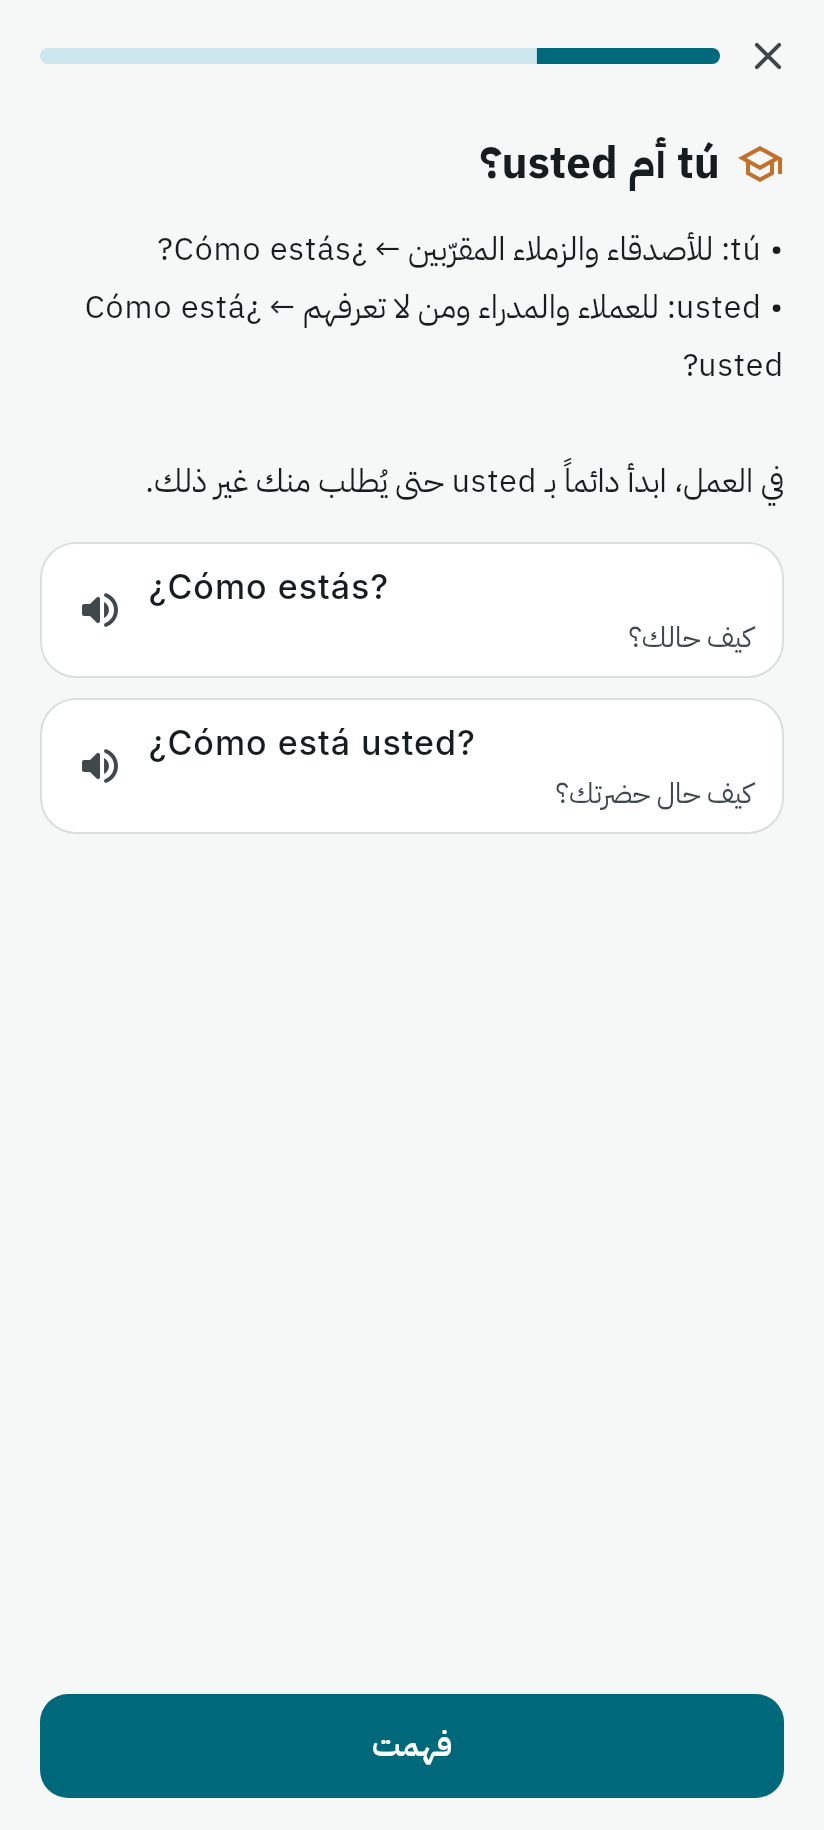
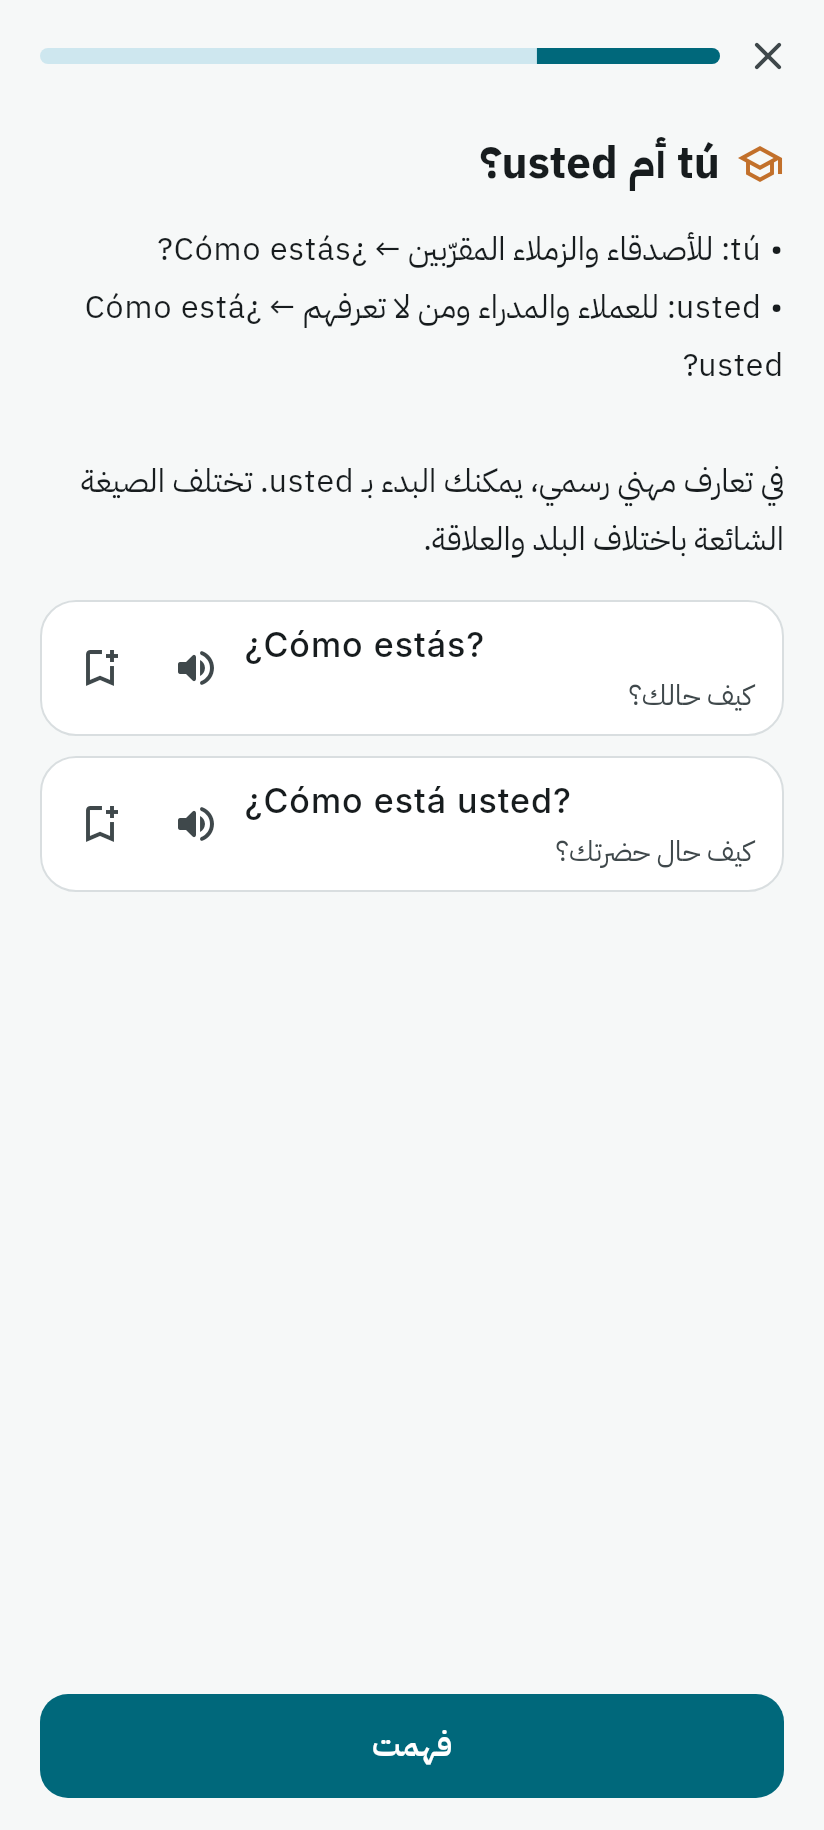
docs: Phase 1.1 status, schema v4 and screenshots
Claude-Session: https://claude.ai/code/session_014cGpiLcERRNXHMXNNCGtL2

diff --git a/test_screenshots/screenshots_test.dart b/test_screenshots/screenshots_test.dart
@@ -7,6 +7,7 @@
 import 'package:espanol_pro/core/content/models.dart';
 import 'package:espanol_pro/core/learning/exercises.dart';
 import 'package:espanol_pro/core/learning/progress_repository.dart';
+import 'package:espanol_pro/core/phrases/saved_phrases_repository.dart';
 import 'package:espanol_pro/core/settings.dart';
 import 'package:espanol_pro/core/srs/review_repository.dart';
 import 'package:flutter_test/flutter_test.dart';
@@ -64,6 +65,24 @@ void main() {
       await repo.logStudy(kind: 'review', seconds: 240);
       if (i != 2) app.clock.advance(const Duration(days: 1));
     }
+    final phrases = SavedPhrasesRepository(app.db, clock: app.clock.call);
+    for (final (es, ar, kind, id, lesson) in [
+      ('Mi casa es tu casa.', 'بيتي بيتك.', 'example', 'casa', 'pa1_u1_l1'),
+      ('el trabajo', 'العمل', 'vocab', 'el_trabajo', 'pa1_u1_l2'),
+      ('Pero / perro', 'لكن / كلب', 'grammar', 'g_letters', null),
+    ]) {
+      await phrases.save(
+        PhraseDraft(
+          es: es,
+          ar: ar,
+          source: PhraseSource(kind: kind, id: id, lessonId: lesson),
+        ),
+      );
+    }
+    final first = (await phrases.all()).firstWhere(
+      (p) => p.es.startsWith('Mi'),
+    );
+    await phrases.updateNote(first.id, 'أقولها لضيف يزورني لأول مرة.');
     return app;
   }
 
@@ -84,6 +103,8 @@ void main() {
     await shot(tester, '05_library_dictionary');
     await tester.tapSettled(find.text('دفتر الأخطاء'));
     await shot(tester, '06_error_notebook');
+    await tester.tapSettled(find.text('عباراتي'));
+    await shot(tester, '18_saved_phrases');
     await tester.tapSettled(find.text('التقدّم'));
     await shot(tester, '07_progress');
     await app.dispose(tester);

diff --git a/AI_BRIDGE/PROJECT_PLAN.md b/AI_BRIDGE/PROJECT_PLAN.md
@@ -53,7 +53,7 @@ updated_at_utc: 2026-11-17T09:00:00Z
 | الرئيسية، المسار، التدريب، المكتبة، التقدّم، الإعدادات | ✅ | `app_flow_test` |
 | شاشة المعلّم الذكي | 🟡 | شاشة تصرّح بأن الميزة غير مفعّلة — ليست ميزة |
 | دلالات إمكانية الوصول (Semantics) | 🟡 | مضافة للعناصر الأساسية؛ لم تُختبر بقارئ شاشة |
-| أيقونة التطبيق وشاشة البداية | ⬜ | ما زالت افتراضية Flutter |
+| أيقونة التطبيق وشاشة البداية | 🟡 | منفّذة في المرحلة 1.1 (PR A)؛ لم تُرَ على جهاز بعد |
 | حركات انتقالية دقيقة | ⬜ | الافتراضية فقط |
 
 ### §5 بنية المنهج
@@ -237,13 +237,14 @@ updated_at_utc: 2026-11-17T09:00:00Z
 
 ### 1.1 — تثبيت الأساس
 
-| العمل | معيار القبول |
-|---|---|
-| الفحوص الخمسة على الجهاز | ✅ أكّدها المالك (REVIEW-004) |
-| أيقونة التطبيق وشاشة البداية | تظهر في APK |
-| إشعار تذكير يومي محلي (اختياري، وقت قابل للضبط) | اختبار لمنطق الجدولة + تحقق يدوي |
-| العبارات المحفوظة (حفظ أي جملة مثال للمراجعة) | جدول جديد بترحيل مختبَر + اختبار واجهة |
-| عدّاد المراجعات المستحقة يتحدّث زمنياً | اختبار |
+| العمل | معيار القبول | الحالة |
+|---|---|---|
+| الفحوص الخمسة على الجهاز | أكّدها المالك | ✅ (REVIEW-004) |
+| أيقونة التطبيق وشاشة البداية | تظهر في APK | 🟡 منفّذة ومختبَرة آلياً (`branding_test`)؛ لم تُرَ على جهاز — PR A |
+| العبارات المحفوظة («عباراتي») | جدول جديد بترحيل مختبَر + اختبار واجهة | ✅ ترحيل v4، نسخ احتياطي، واجهة — PR A |
+| عدّاد المراجعات المستحقة يتحدّث زمنياً | اختبار بساعة متحكَّم بها | ✅ مؤقّت واحد لموعد البطاقة التالية بلا استطلاع — PR A |
+| حفظ وقت المراجعة لبطاقة فُتحت ولم تُقيَّم (REVIEW-004 P2) | اختبار | ✅ — PR A |
+| إشعار تذكير يومي محلي (اختياري، وقت قابل للضبط) | اختبار لمنطق الجدولة + تحقق يدوي | ⬜ PR B (يضيف إضافة إشعارات أصلية) |
 
 ### 1.2 — الاستماع والتقييم
 

diff --git a/docs/DATABASE.md b/docs/DATABASE.md
@@ -1,7 +1,7 @@
 # Database
 
 SQLite via Drift. File: `espanol_pro.sqlite` in the app documents directory.
-Schema version **3**. Source: `lib/core/db/database.dart`.
+Schema version **4**. Source: `lib/core/db/database.dart`.
 
 Only learner-generated data is stored. Curriculum entities (levels, units,
 lessons, vocabulary, grammar, sources, licences) live in the versioned content
@@ -56,6 +56,13 @@ erDiagram
         text lesson_id  text item_id
         int count  int correct_since  int first_seen  int last_seen
     }
+    SAVED_PHRASES {
+        int id PK
+        text phrase_key UK "normalised Spanish text (v4)"
+        text es  text ar  text en
+        text source_kind "vocab | example | grammar | lesson_note"
+        text source_id  text source_lesson_id  text note  int saved_at
+    }
     REVIEW_CARDS ||--o{ REVIEW_LOGS : "has history (cascade)"
 ```
 
@@ -79,6 +86,18 @@ per item and direction, so repeating a lesson cannot duplicate cards ·
 | AudioAsset | not applicable yet (device TTS, no audio files) |
 | PronunciationAttempt, ConversationSession/Message, Assessment/Result, WorkScenario | Phase 2–4, not created yet |
 
+## Saved phrases (v4)
+
+Identity is `phrase_key`, the Spanish text normalised like a typed answer
+(case, punctuation and spacing ignored; accents and ñ kept). It does not
+depend on a content id, so a saved phrase survives curriculum edits, and the
+same sentence saved from two screens is one row. Saved phrases are a personal
+library, not progress: **Reset progress keeps them**, and **restoring a
+backup from before v4 leaves them untouched** instead of deleting them. A v4
+backup must contain the table and replaces it. They do not create FSRS cards
+yet; if they ever do, the card's `item_id` will be `phrase:<phrase_key>` so it
+cannot collide with curriculum items.
+
 ## Migrations
 
 Rule: migrations are additive and never drop learner data.
@@ -88,6 +107,7 @@ Rule: migrations are additive and never drop learner data.
 | 1 | settings, lesson_progress, activity_attempts, review_cards, review_logs, study_sessions |
 | 2 | + `error_records` table · + `activity_attempts.is_measured` (default true) |
 | 3 | + `activity_attempts.attempt_number` (default 1) — separates first attempts from prompted retries |
+| 4 | + `saved_phrases` table — the learner's saved sentences |
 
 `test/persistence_test.dart` builds real v1 and v2 database files from the
 verbatim historical DDL, fills them, opens them with the current code and

diff --git a/docs/IMPLEMENTATION_STATUS.md b/docs/IMPLEMENTATION_STATUS.md
@@ -37,6 +37,11 @@ content. Phase 1.1 work is in progress on later PRs.
 | Progress survives closing and reopening the database | `persistence_test` |
 | Backup export / restore / reset; v1–v3 restore compatibility and rejection of malformed fields with every existing row preserved | `persistence_test` |
 | Review ratings, FSRS state, and active study time commit together and survive reopening SQLite | `persistence_test`, including failure during the study-time write |
+| **Phase 1.1:** saved phrases («عباراتي»): save from vocabulary, examples, lesson notes and the grammar reference; search, audio, note, remove with undo; one record per sentence | `saved_phrases_test`, `app_flow_test` |
+| **Phase 1.1:** schema v4 (`saved_phrases`), migration v3→v4 on a real file; backups include and validate it; pre-v4 restores and progress resets keep saved phrases | `persistence_test` |
+| **Phase 1.1:** live due-review counter on Home and Practice: one timer to the next due instant, no polling, recomputed on resume | `due_counter_test`, `app_flow_test` (clock-controlled, no DB write) |
+| **Phase 1.1:** time on an opened but unrated review card is stored when the app is backgrounded or the screen closes, without double counting (REVIEW-004 P2) | `app_flow_test` |
+| **Phase 1.1:** app identity: adaptive icon with themed (monochrome) layer, density PNGs, Android 12+ and legacy splash, matching in-app loading screen | `branding_test` (resources and colours); not yet seen on a device |
 
 Local Windows verification used Flutter 3.50.0. All 105 tests passed,
 including the A1 unlock regression. Analysis passed with `--fatal-infos`,
@@ -65,7 +70,8 @@ remain at v3.
 - Not covered by that confirmation: every accent/voice/speed variant, every
   Settings/theme case, and the A1 transition on device. Automated tests
   cover some of these paths. See [device evidence](REVIEW_HANDOFF.md#4-android-device-checks).
-- The app icon and splash use the Flutter defaults.
+- Phase 1.1 replaces the default icon and splash. Their appearance on a
+  device has not been checked yet.
 
 ## Not implemented (and not claimed)
 
